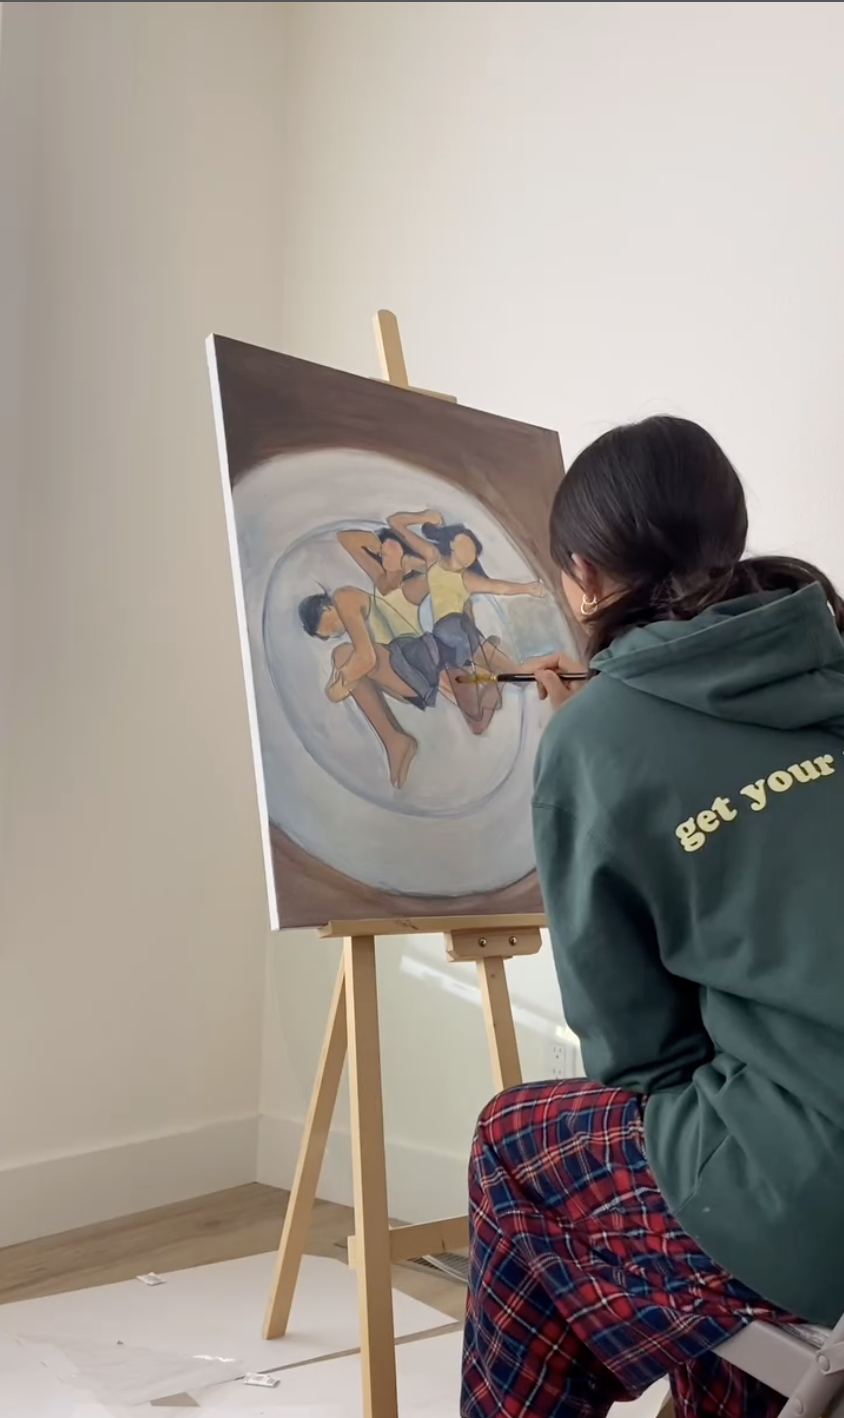
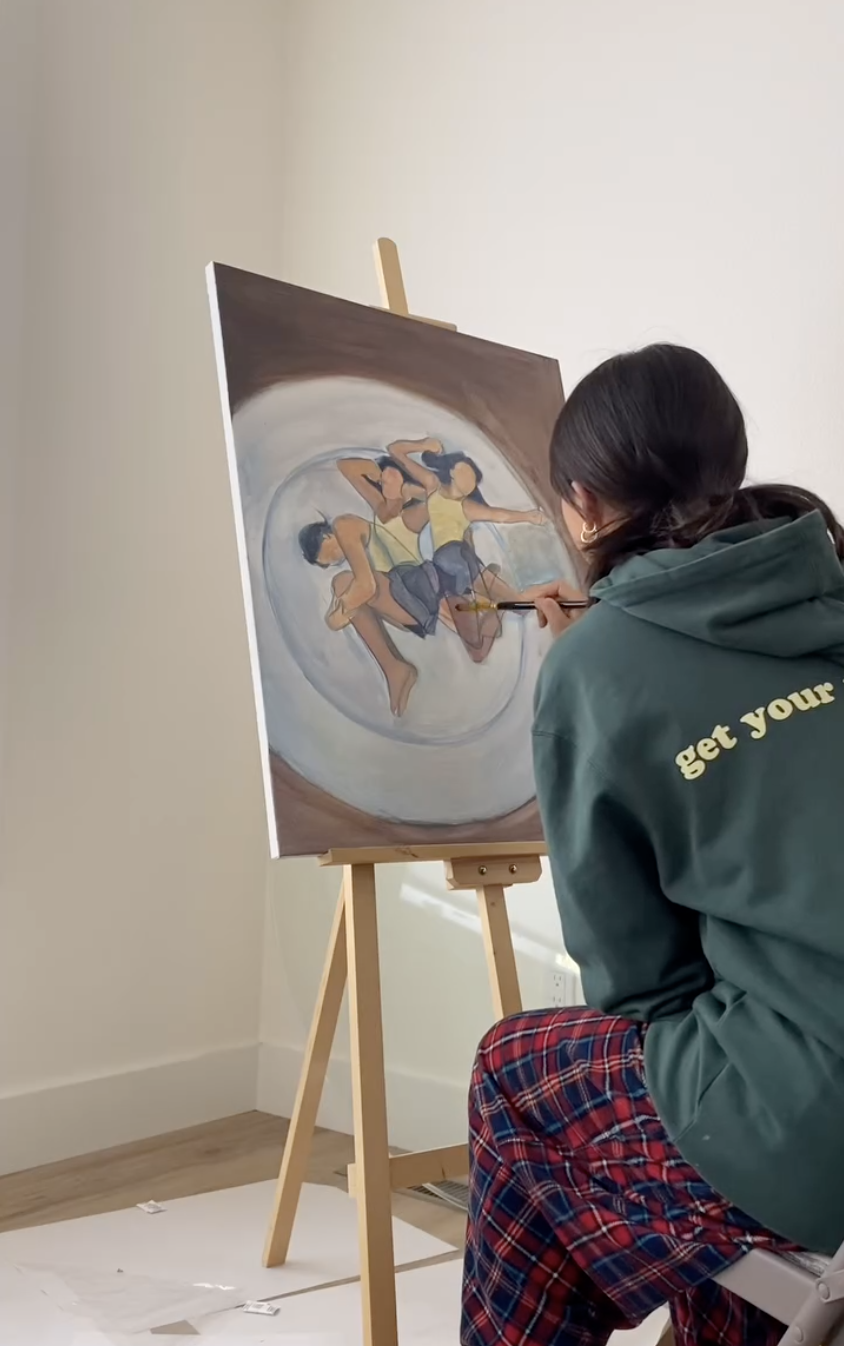
Crop a little off the top of the About painting carousel photo.

Changed region(s): [[0.0308, 0.156, 1.0, 0.9985], [0.2773, 0.9361, 0.4313, 0.9985], [0.0, 0.8737, 0.1232, 0.9361]]

diff --git a/about/index.html b/about/index.html
@@ -100,7 +100,7 @@
           </figure>
           <figure class="about-carousel__card">
             <div class="about-carousel__frame">
-              <img src="../assets/images/about/carousel/drawing-pic.png" alt="Joyce painting a circular figure composition on an easel" width="844" height="1418">
+              <img src="../assets/images/about/carousel/drawing-pic.png" alt="Joyce painting a circular figure composition on an easel" width="844" height="1346">
             </div>
             <figcaption class="about-carousel__caption">placeholder</figcaption>
           </figure>
